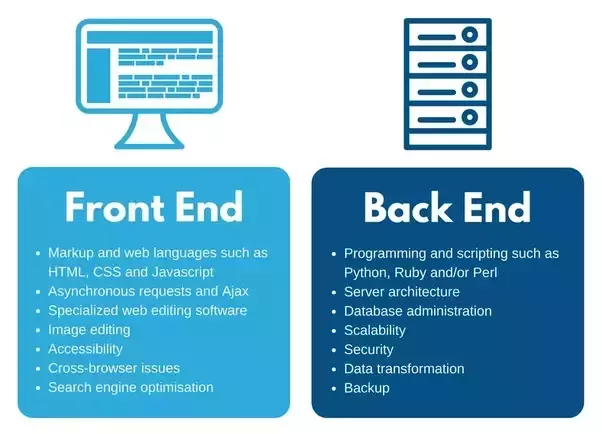
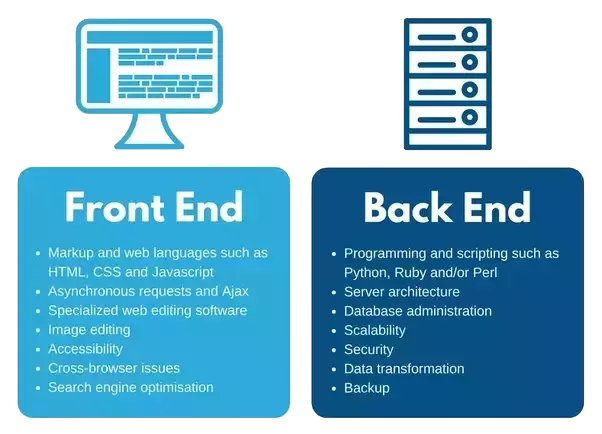
update imahge

diff --git a/docs/index.html b/docs/index.html
@@ -176,13 +176,15 @@
 					</p>
 				</section>
 				<section data-background-image="./images/bug-fix.jpg" data-background-size="contain"></section>
+				<section data-background-image="./images/frontend-backend-2.png" data-background-size="contain">
+				</section>
 				<section data-background-image="./images/backend-frontend.png" data-background-size="contain"
 					data-state="dimbg60">
 					<h2>Languages</h2>
 					<u><a href="https://raw.githubusercontent.com/markeberhart/career-presentation/main/docs/index.html" target="_blank"><h3>SEE THIS SOURCE HTML</h3></a></u>
 					<u><a href="https://raw.githubusercontent.com/markeberhart/ordeno/main/pics.py" target="_blank"><h3>SAMPLE PYTHON CODE</h3></a></u>
 				</section>
-				<section data-background-image="./images/languages-2.png" data-background-size="contain">
+				<section data-background-image="./images/backend-frontend.png" data-background-size="contain">
 				</section>
 				<section data-background-image="./images/data-2.png" data-background-size="contain"
 					data-state="dimbg35">
